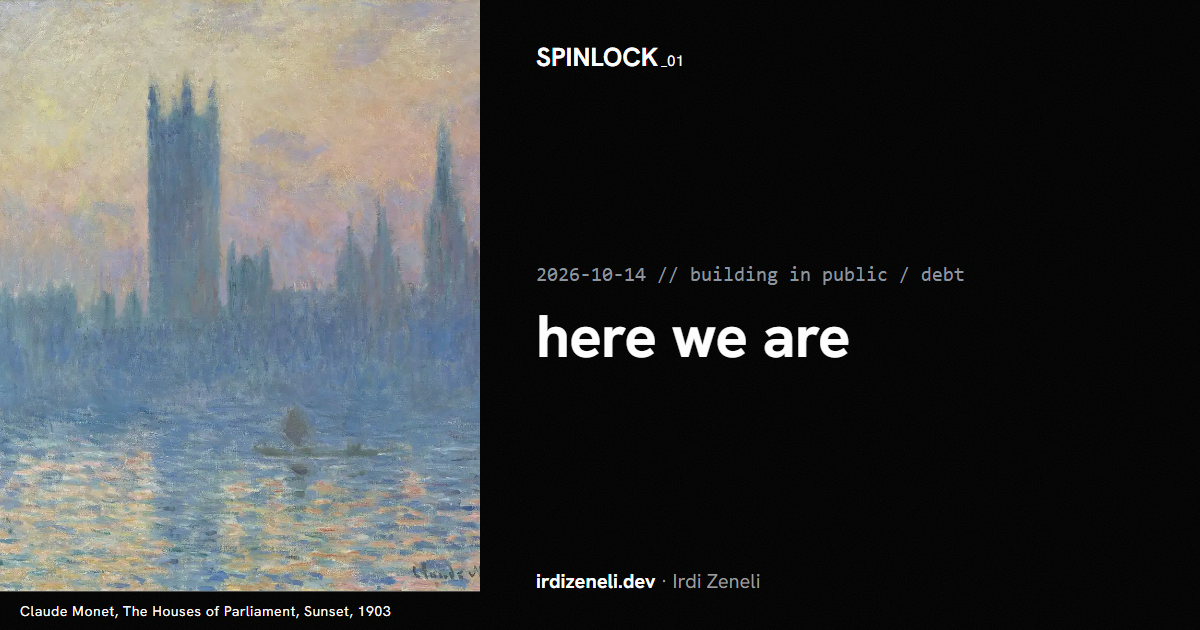
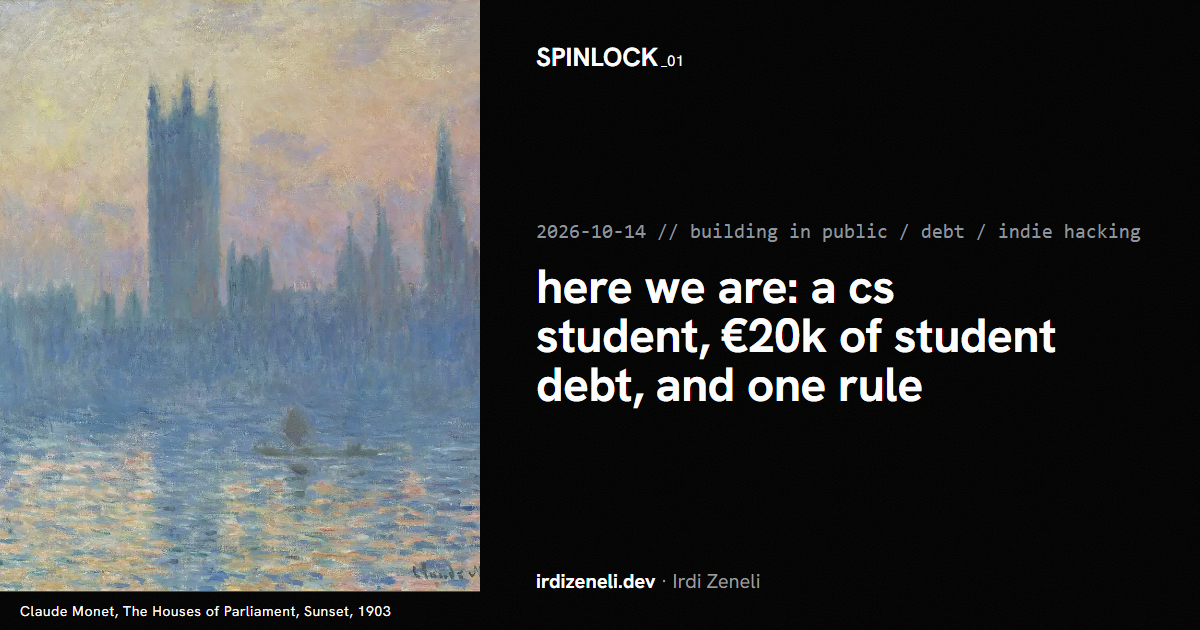
Make post titles and descriptions searchable
Keep the original lowercase titles as the lead and add the terms people
search for (svgator, crashed, student debt). Same slugs, so no links break.
Share cards re-rendered; the card's tag line now stays on one line.

diff --git a/scripts/og-post.html b/scripts/og-post.html
@@ -17,7 +17,7 @@
   .side { position: relative; display: flex; flex-direction: column; justify-content: center; padding: 48px 56px; }
   .brand { position: absolute; top: 40px; left: 56px; font-size: 26px; font-weight: 700; text-transform: uppercase; }
   .brand span { font-size: 15px; font-weight: 400; margin-left: 3px; }
-  .meta { font-family: Menlo, Consolas, monospace; font-size: 20px; color: #8b949e; margin-bottom: 20px; }
+  .meta { font-family: Menlo, Consolas, monospace; font-size: 20px; color: #8b949e; margin-bottom: 20px; white-space: nowrap; overflow: hidden; text-overflow: ellipsis; }
   h1 { font-size: 60px; font-weight: 700; line-height: 1.02; letter-spacing: -.01em; text-wrap: balance; }
   h1.long { font-size: 48px; }
   .domain { position: absolute; left: 56px; bottom: 36px; font-size: 20px; color: #9a9a9a; }

diff --git a/src/content/posts/two-clip-paths.md b/src/content/posts/two-clip-paths.md
@@ -1,9 +1,9 @@
 ---
-title: "two clip paths walk into a group and never leave"
+title: "two clip paths walk into a group and never leave: how they crashed the svgator editor"
 subtitle: "how my ai broke an animation editor at 2am, and then helped me find out why"
 date: 2026-10-20
-excerpt: "i entered the svgator x contra challenge, let an ai build my templates, and it crashed the editor. so we hunted the bug down together at 2am."
-tags: ["bugs", "svgator", "building in public"]
+excerpt: "two clipPaths in one svg group froze the svgator editor until chrome ran out of memory. i narrowed it down, caught the layers panel stuck in an endless redraw loop, and found a simple workaround."
+tags: ["bugs", "svgator", "building in public", "svg", "debugging"]
 painting: wheatstacks
 draft: false
 ---

diff --git a/src/content/posts/here-we-are.md b/src/content/posts/here-we-are.md
@@ -1,8 +1,8 @@
 ---
-title: "here we are"
+title: "here we are: a cs student, €20k of student debt, and one rule"
 date: 2026-10-14
-excerpt: "a cs student, 20k of debt, and a rule: ship until something pays."
-tags: ["building in public", "debt"]
+excerpt: "i'm a cs student in the netherlands with €20k of student debt. the rule: ship things in public until one of them pays. this is the scoreboard."
+tags: ["building in public", "debt", "indie hacking"]
 draft: false
 ---
 
